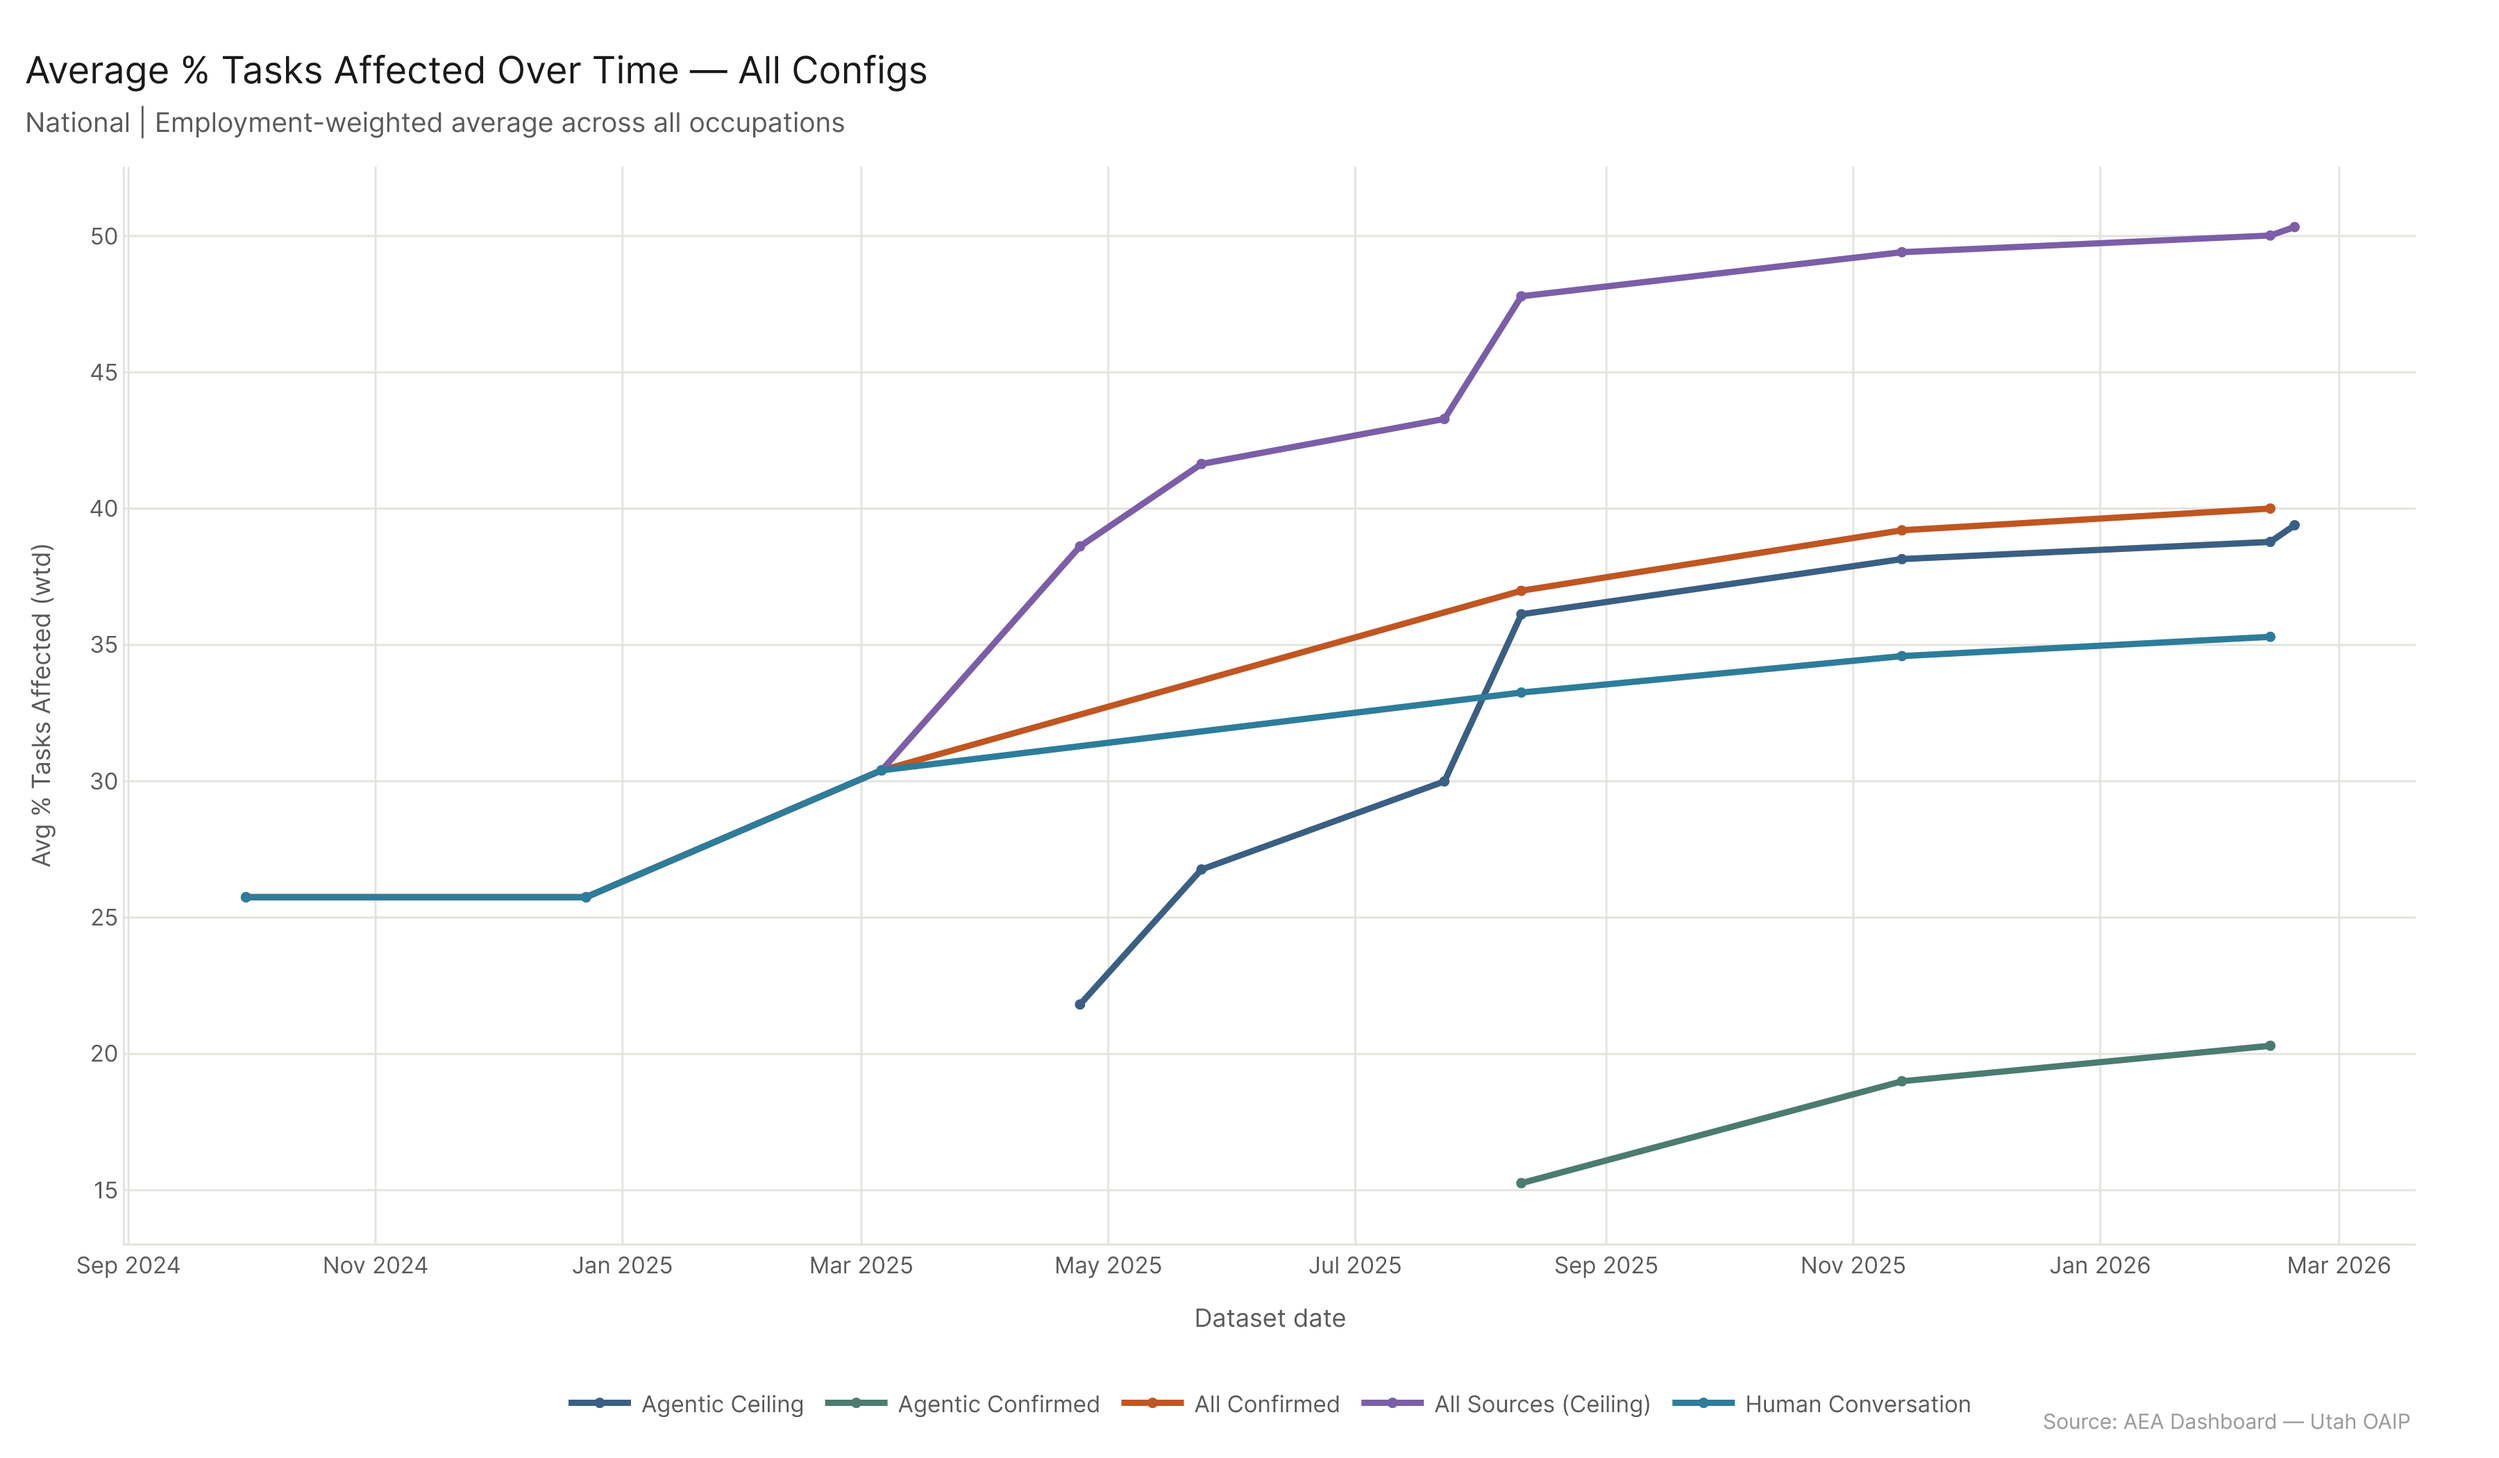
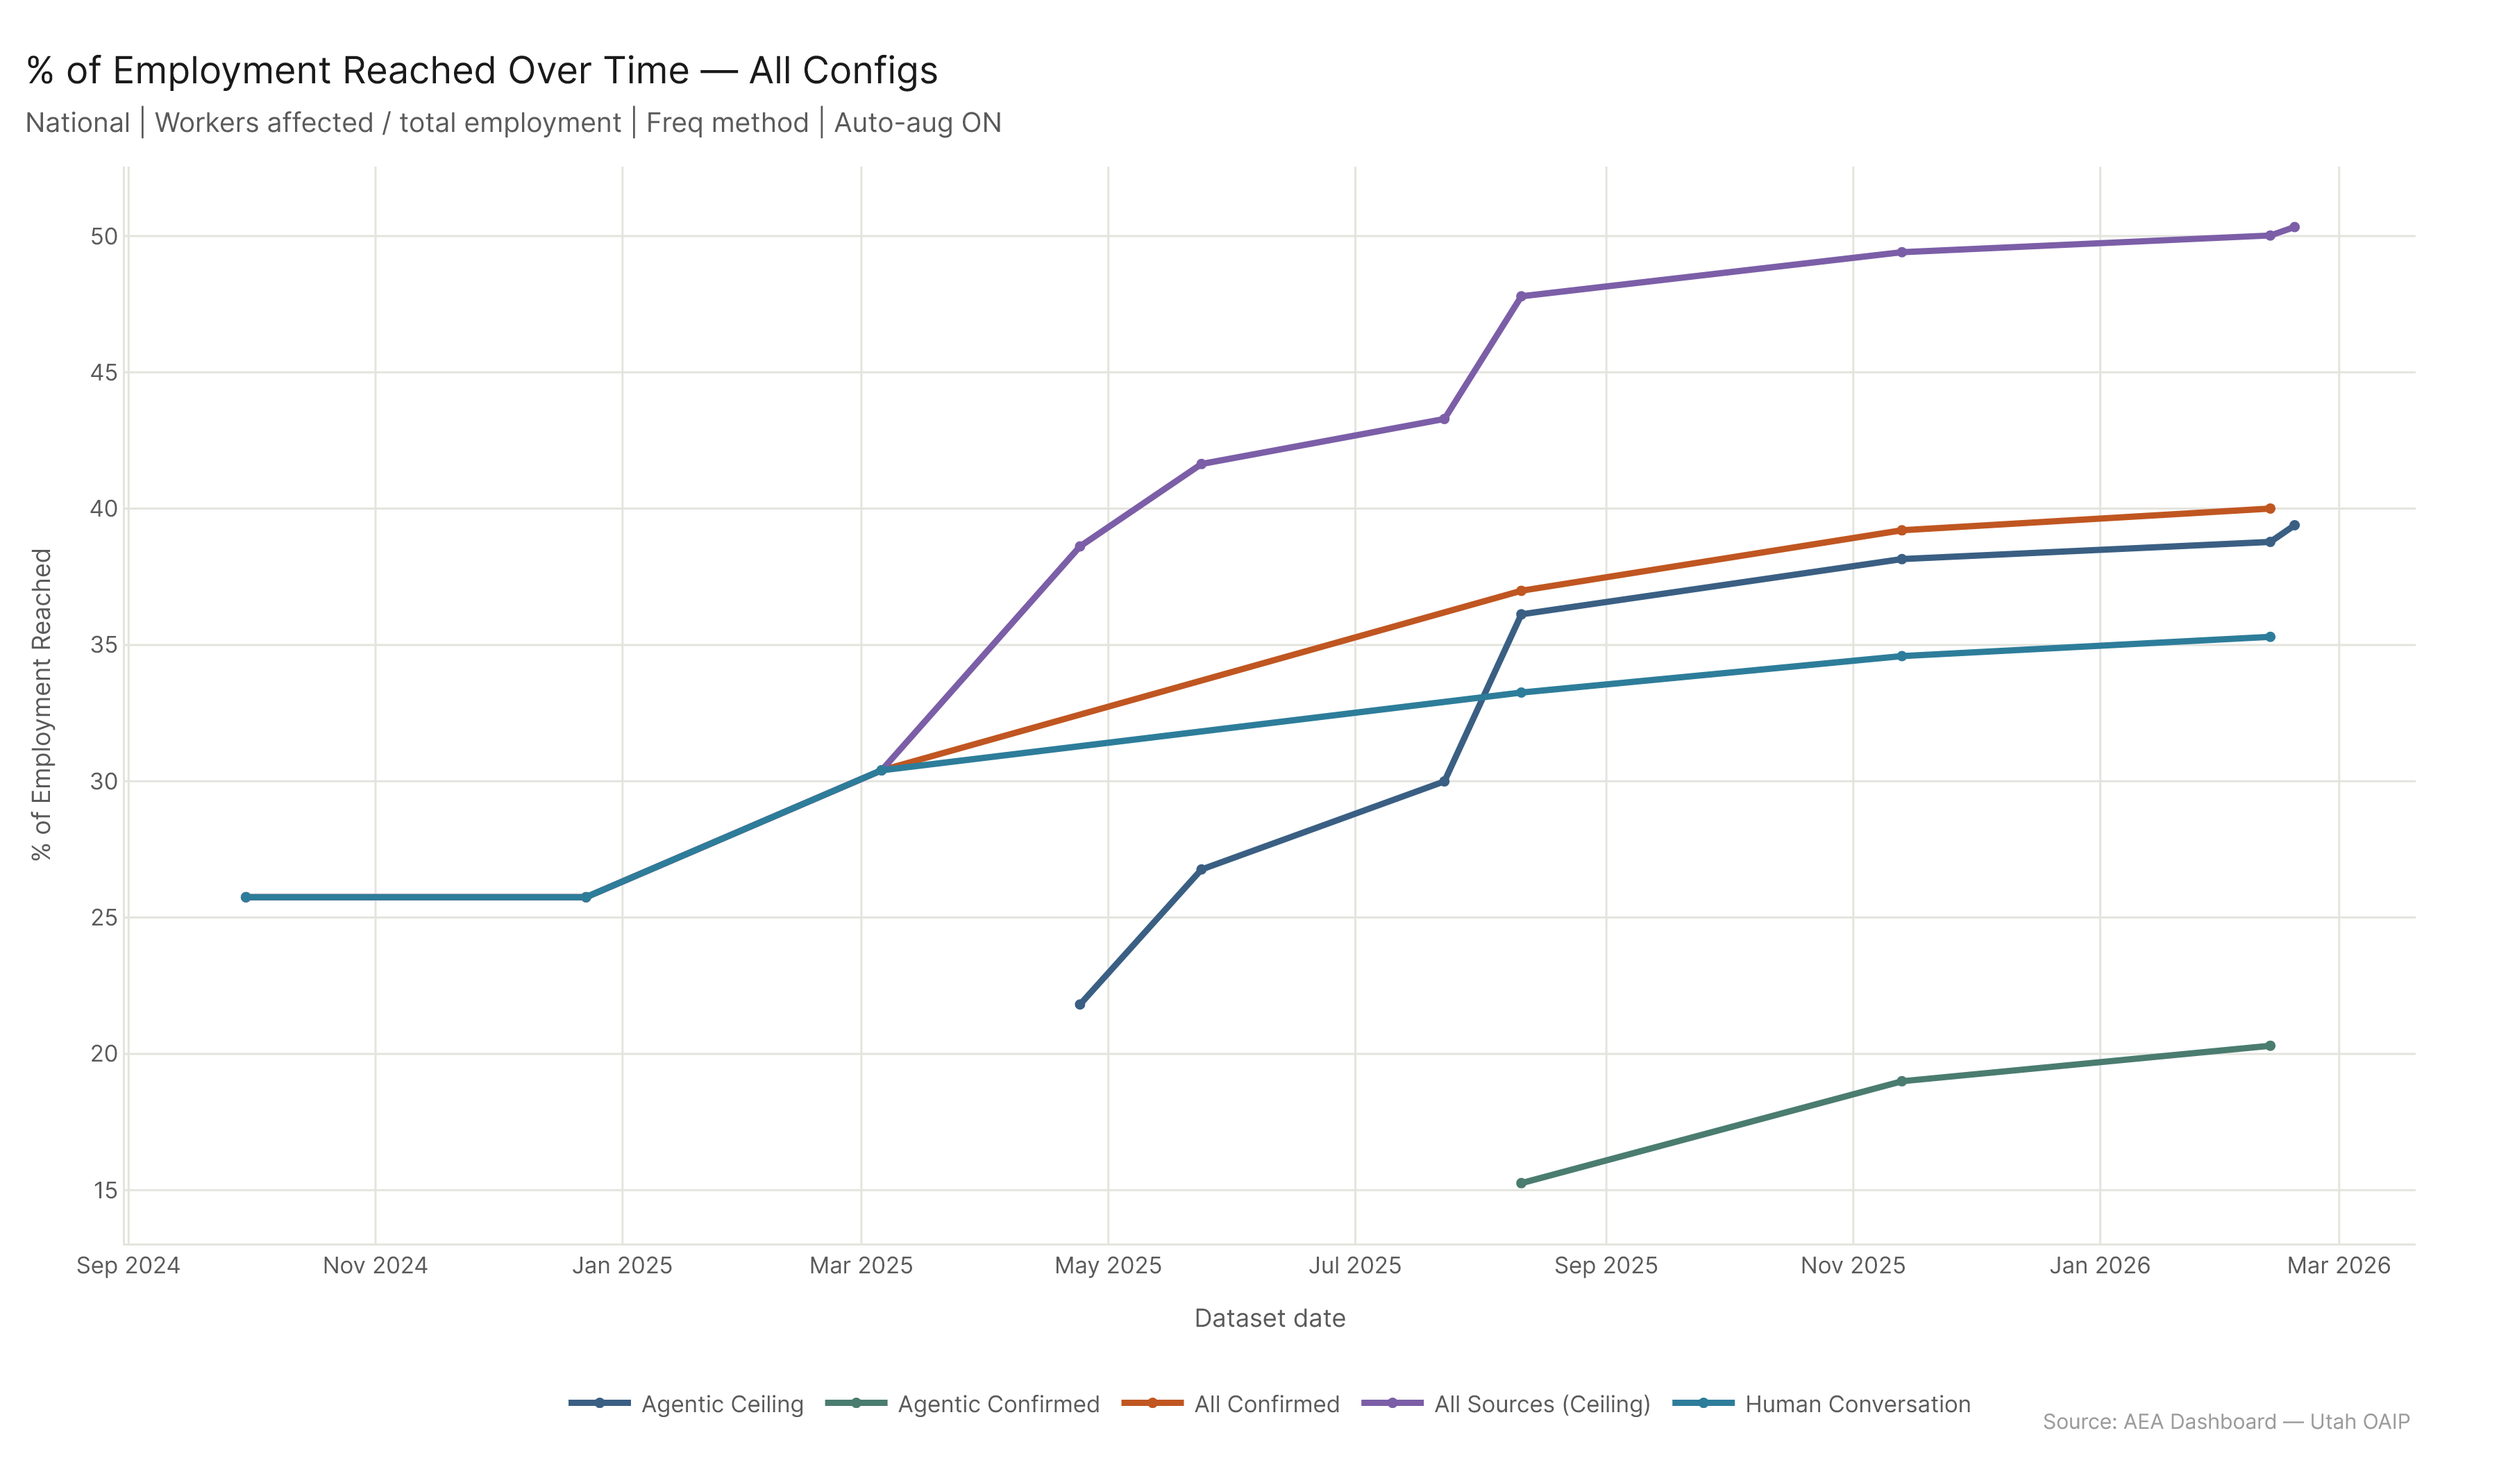
Trends: drop redundant workers chart, fix pct chart labels
The workers-affected and pct-of-employment charts were proportional by
construction (pct = workers / total_emp), producing identical-looking charts.
Removed the workers chart and kept only the pct chart with corrected labels:
- Title: '% of Employment Reached Over Time'
- Subtitle: 'Workers affected / total employment' (was 'Employment-weighted')
- Y-axis: '% of Employment Reached' (was 'Avg % Tasks Affected (wtd)')

Added a note in the report explaining why the workers chart was removed.

Changed region(s): [[0.0, 0.031, 0.4044, 0.0929], [0.0, 0.4643, 0.0311, 0.5881], [0.0, 0.3714, 0.0311, 0.4333]]

diff --git a/analysis/questions/economic_footprint/trends/run.py b/analysis/questions/economic_footprint/trends/run.py
@@ -198,27 +198,11 @@ def main() -> None:
 
     # -- 3. Figures ------------------------------------------------------------
 
-    # 3a. Aggregate trend — workers affected
+    # 3a. Aggregate trend — % of employment
+    # Note: pct_tasks_wtd = workers_affected / total_emp * 100, so workers and
+    # pct charts are proportional and look identical. Keep only the pct chart
+    # (more interpretable) and drop the redundant workers chart.
     if not agg_df.empty:
-        agg_workers = agg_df.pivot_table(
-            index="date", columns="config_label", values="workers_affected"
-        ).reset_index()
-        agg_workers_long = agg_workers.melt(id_vars="date", var_name="config_label", value_name="workers_affected")
-        agg_workers_long["workers_m"] = agg_workers_long["workers_affected"] / 1e6
-        agg_workers_long = agg_workers_long.dropna()
-
-        fig_agg = make_line_chart(
-            agg_workers_long, "date", "workers_m", "config_label",
-            "Workers Affected Over Time — All Configs",
-            subtitle="National | Freq method | Auto-aug ON | All major sectors combined",
-            y_title="Workers Affected (millions)",
-            x_title="Dataset date",
-        )
-        save_figure(fig_agg, results / "figures" / "aggregate_trend.png")
-        shutil.copy(results / "figures" / "aggregate_trend.png", figs_dir / "aggregate_trend.png")
-        print("  aggregate_trend.png")
-
-        # 3b. Aggregate trend — pct of employment
         agg_pct = agg_df.pivot_table(
             index="date", columns="config_label", values="pct_tasks_wtd"
         ).reset_index()
@@ -227,9 +211,9 @@ def main() -> None:
 
         fig_agg_pct = make_line_chart(
             agg_pct_long, "date", "pct_tasks_wtd", "config_label",
-            "Average % Tasks Affected Over Time — All Configs",
-            subtitle="National | Employment-weighted average across all occupations",
-            y_title="Avg % Tasks Affected (wtd)",
+            "% of Employment Reached Over Time — All Configs",
+            subtitle="National | Workers affected / total employment | Freq method | Auto-aug ON",
+            y_title="% of Employment Reached",
             x_title="Dataset date",
         )
         save_figure(fig_agg_pct, results / "figures" / "aggregate_trend_pct.png")

diff --git a/analysis/question_findings/economic_footprint__trends_report.md b/analysis/question_findings/economic_footprint__trends_report.md
@@ -16,9 +16,9 @@ The ceiling and confirmed trajectories have moved together rather than convergin
 
 The worker count growth is almost entirely driven by new capability claims being added — the labor market itself isn't changing quickly. What's changing is the assessed reach of AI into existing occupational tasks. The same jobs are there; AI keeps finding new footholds in them.
 
-![Aggregate Worker Count Trend Over Time](figures/aggregate_trend.png)
+![% of Employment Reached Over Time — All Configs](figures/aggregate_trend_pct.png)
 
-![Aggregate Task Penetration Trend Over Time](figures/aggregate_trend_pct.png)
+Note: the workers-affected trend and this chart are proportional by construction — pct of employment = workers affected / total employment, a fixed scalar. The workers chart is redundant and has been removed. The pct framing is more interpretable.
 
 ---
 

diff --git a/analysis/questions/economic_footprint/trends/trends_report.md b/analysis/questions/economic_footprint/trends/trends_report.md
@@ -16,9 +16,9 @@ The ceiling and confirmed trajectories have moved together rather than convergin
 
 The worker count growth is almost entirely driven by new capability claims being added — the labor market itself isn't changing quickly. What's changing is the assessed reach of AI into existing occupational tasks. The same jobs are there; AI keeps finding new footholds in them.
 
-![Aggregate Worker Count Trend Over Time](figures/aggregate_trend.png)
+![% of Employment Reached Over Time — All Configs](figures/aggregate_trend_pct.png)
 
-![Aggregate Task Penetration Trend Over Time](figures/aggregate_trend_pct.png)
+Note: the workers-affected trend and this chart are proportional by construction — pct of employment = workers affected / total employment, a fixed scalar. The workers chart is redundant and has been removed. The pct framing is more interpretable.
 
 ---
 
